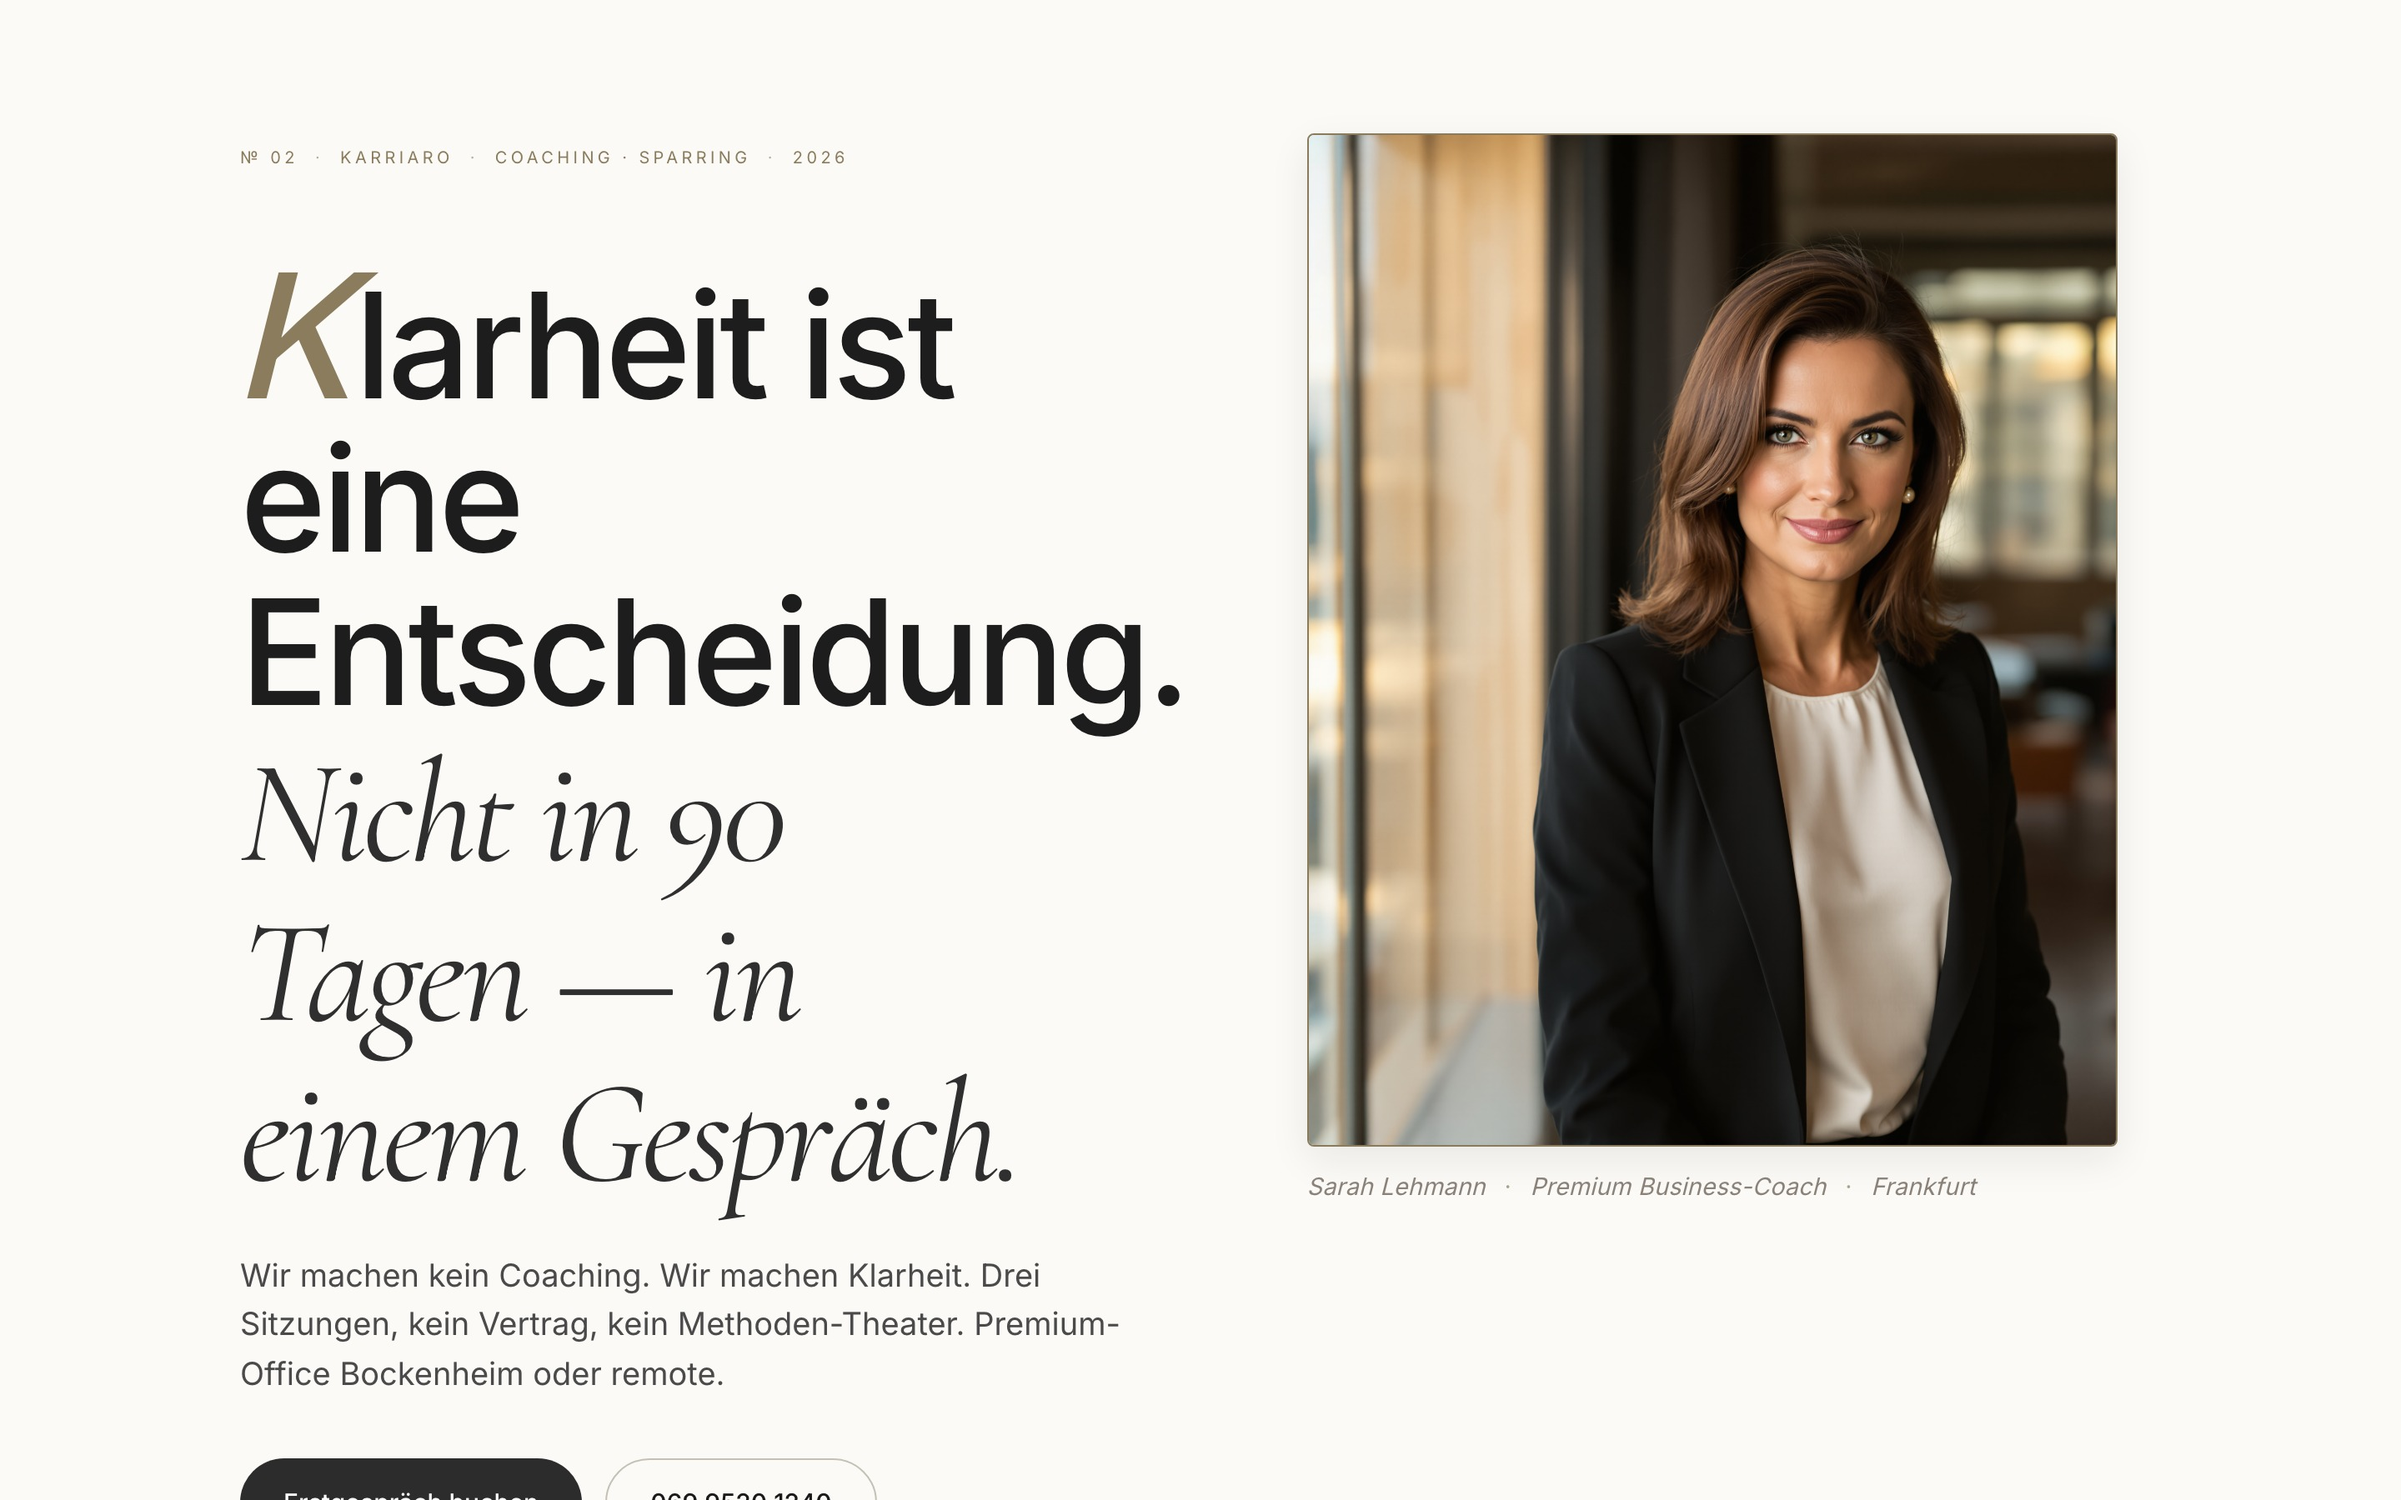
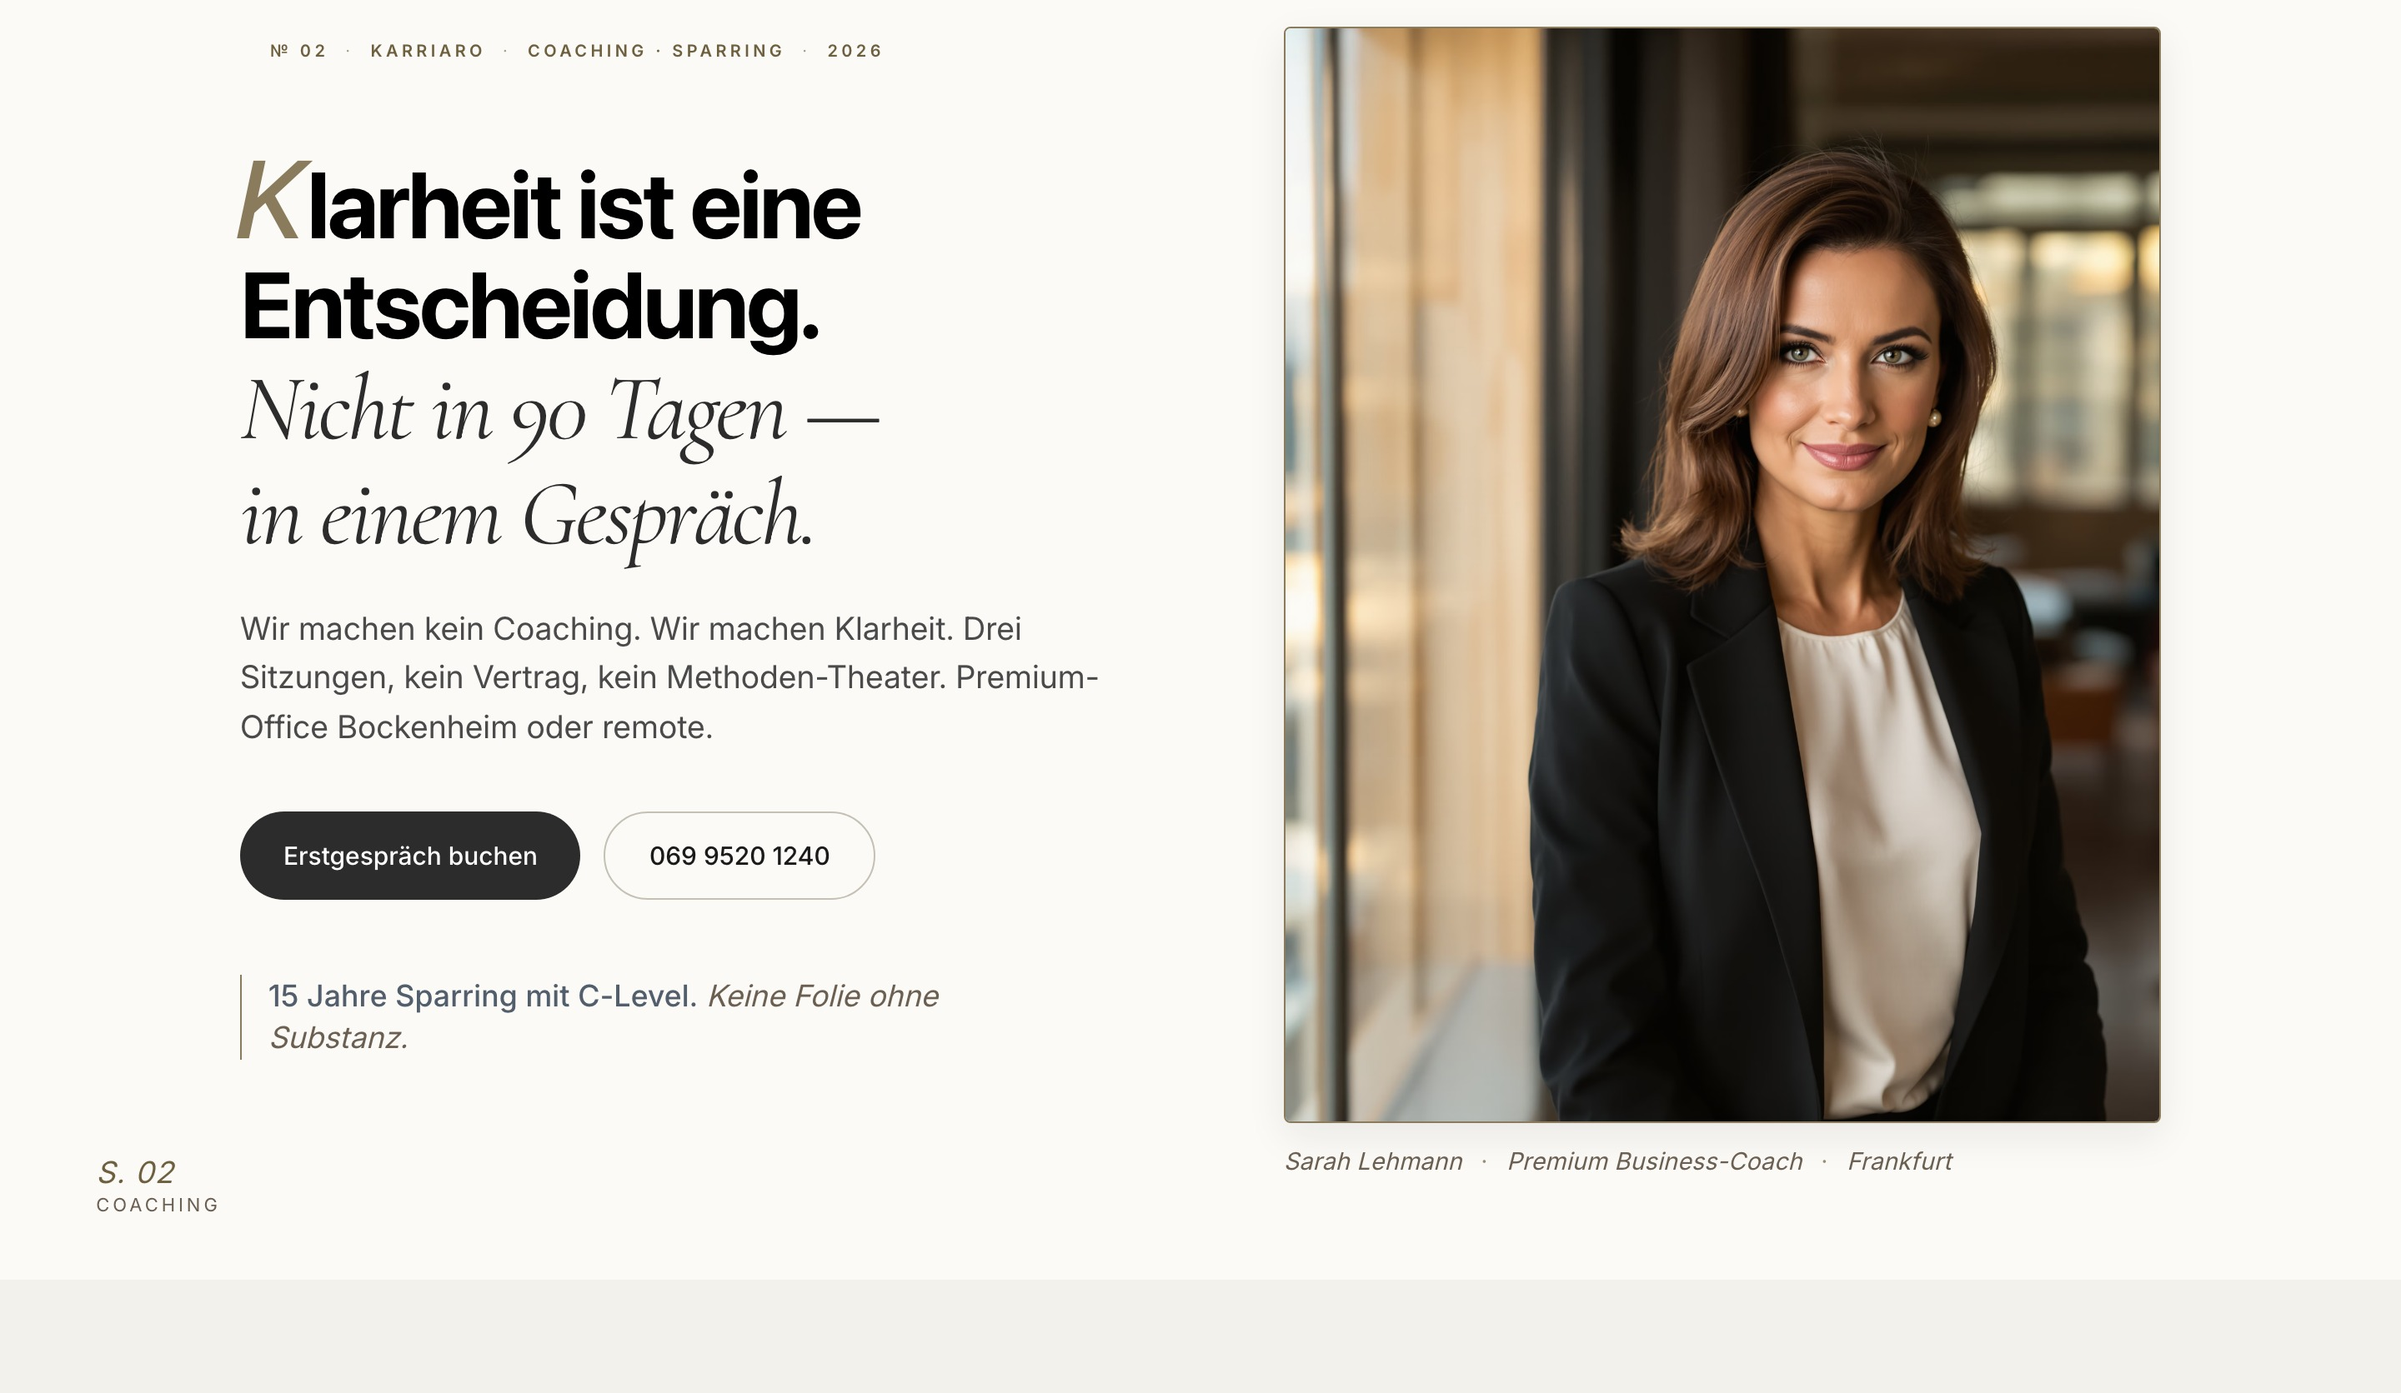
Sprint 186 (Polish): Coaching-Mockup neu geschossen — Buttons vollständig im Bild
Founder: Buttons im Coaching-Vorschaubild abgeschnitten. Ursache: Above-Fold-
Capture (1440×900) — die lange Headline schob die CTAs unter die 900px-Kante.
Plus aufgedeckte Regression: screenshot-mode versteckte die Nav nicht mehr.
Fix:
- screenshot-mockups-fold.mjs: per-Page clipY (coaching: 64px Fenster-Versatz)
  + CLI-Filter (nur eine Seite neu schießen). Beides bleibend nützlich.
- build-mobile-pages.mjs: screenshot-mode-CSS wiederhergestellt (versteckt
  topbar/header/nav/kr-strip → Hero startet oben, keine Nav im Capture).
- Neues coaching-lehmann-mockup-fold.jpg (Buttons + Eyebrow vollständig,
  visuell verifiziert) + Cache-Bust ?v=139→186.

Smoke regressionsfrei.

diff --git a/src/m/index.html b/src/m/index.html
@@ -3325,6 +3325,7 @@ section h2{font-family:-apple-system,BlinkMacSystemFont,'SF Pro Display','Inter'
     <link rel="stylesheet" href="/css/mobile-overrides.css?v=421" media="print" onload="this.media='all'">
     <noscript><link rel="stylesheet" href="/css/mobile-overrides.css?v=421"></noscript>
     <script>(function(){if(/[?&]screenshot=1/.test(location.search))document.documentElement.classList.add('screenshot-mode');})();</script>
+    <style>html.screenshot-mode .topbar,html.screenshot-mode header,html.screenshot-mode nav,html.screenshot-mode .kr-strip,html.screenshot-mode .kr-footer-card{display:none!important}</style>
     <link rel="manifest" href="/manifest.json">
     <link rel="apple-touch-icon" sizes="180x180" href="/icons/apple-touch-icon.png">
     <link rel="icon" type="image/png" sizes="192x192" href="/icons/icon-192.png">
@@ -5356,7 +5357,7 @@ section h2{font-family:-apple-system,BlinkMacSystemFont,'SF Pro Display','Inter'
                     href: '/portfolio/immobilien-makler.html'
                 },
                 coaching: {
-                    src: '/images/coaching-lehmann-mockup-fold.jpg?v=139',
+                    src: '/images/coaching-lehmann-mockup-fold.jpg?v=186',
                     alt: 'Vorschau-Bild für Business-Coach Sarah Lehmann — Coaching & Beratung',
                     url: 'coach-lehmann.de',
                     label: 'Coach Lehmann · Coaching-Werkzeuge',

diff --git a/src/m/audit.html b/src/m/audit.html
@@ -143,6 +143,7 @@ section h2{font-family:-apple-system,BlinkMacSystemFont,'SF Pro Display','Inter'
     <link rel="stylesheet" href="/css/mobile-overrides.css?v=421" media="print" onload="this.media='all'">
     <noscript><link rel="stylesheet" href="/css/mobile-overrides.css?v=421"></noscript>
     <script>(function(){if(/[?&]screenshot=1/.test(location.search))document.documentElement.classList.add('screenshot-mode');})();</script>
+    <style>html.screenshot-mode .topbar,html.screenshot-mode header,html.screenshot-mode nav,html.screenshot-mode .kr-strip,html.screenshot-mode .kr-footer-card{display:none!important}</style>
     <link rel="manifest" href="/manifest.json">
     <link rel="apple-touch-icon" sizes="180x180" href="/icons/apple-touch-icon.png">
     <link rel="icon" type="image/png" sizes="192x192" href="/icons/icon-192.png">

diff --git a/src/m/blog.html b/src/m/blog.html
@@ -105,6 +105,7 @@ section h2{font-family:-apple-system,BlinkMacSystemFont,'SF Pro Display','Inter'
     <link rel="stylesheet" href="/css/mobile-overrides.css?v=421" media="print" onload="this.media='all'">
     <noscript><link rel="stylesheet" href="/css/mobile-overrides.css?v=421"></noscript>
     <script>(function(){if(/[?&]screenshot=1/.test(location.search))document.documentElement.classList.add('screenshot-mode');})();</script>
+    <style>html.screenshot-mode .topbar,html.screenshot-mode header,html.screenshot-mode nav,html.screenshot-mode .kr-strip,html.screenshot-mode .kr-footer-card{display:none!important}</style>
     <link rel="manifest" href="/manifest.json">
     <link rel="apple-touch-icon" sizes="180x180" href="/icons/apple-touch-icon.png">
     <link rel="icon" type="image/png" sizes="192x192" href="/icons/icon-192.png">

diff --git a/src/m/gruender.html b/src/m/gruender.html
@@ -101,6 +101,7 @@ section h2{font-family:-apple-system,BlinkMacSystemFont,'SF Pro Display','Inter'
     <link rel="stylesheet" href="/css/mobile-overrides.css?v=421" media="print" onload="this.media='all'">
     <noscript><link rel="stylesheet" href="/css/mobile-overrides.css?v=421"></noscript>
     <script>(function(){if(/[?&]screenshot=1/.test(location.search))document.documentElement.classList.add('screenshot-mode');})();</script>
+    <style>html.screenshot-mode .topbar,html.screenshot-mode header,html.screenshot-mode nav,html.screenshot-mode .kr-strip,html.screenshot-mode .kr-footer-card{display:none!important}</style>
     <link rel="manifest" href="/manifest.json">
     <link rel="apple-touch-icon" sizes="180x180" href="/icons/apple-touch-icon.png">
     <link rel="icon" type="image/png" sizes="192x192" href="/icons/icon-192.png">

diff --git a/src/m/lighthouse-scores.html b/src/m/lighthouse-scores.html
@@ -220,6 +220,7 @@ section h2{font-family:-apple-system,BlinkMacSystemFont,'SF Pro Display','Inter'
     <link rel="stylesheet" href="/css/mobile-overrides.css?v=421" media="print" onload="this.media='all'">
     <noscript><link rel="stylesheet" href="/css/mobile-overrides.css?v=421"></noscript>
     <script>(function(){if(/[?&]screenshot=1/.test(location.search))document.documentElement.classList.add('screenshot-mode');})();</script>
+    <style>html.screenshot-mode .topbar,html.screenshot-mode header,html.screenshot-mode nav,html.screenshot-mode .kr-strip,html.screenshot-mode .kr-footer-card{display:none!important}</style>
     <link rel="manifest" href="/manifest.json">
     <link rel="apple-touch-icon" sizes="180x180" href="/icons/apple-touch-icon.png">
     <link rel="icon" type="image/png" sizes="192x192" href="/icons/icon-192.png">

diff --git a/src/m/portfolio/coaching-lehmann.html b/src/m/portfolio/coaching-lehmann.html
@@ -277,6 +277,7 @@ section h2{font-family:-apple-system,BlinkMacSystemFont,'SF Pro Display','Inter'
     <link rel="stylesheet" href="/css/mobile-overrides.css?v=421" media="print" onload="this.media='all'">
     <noscript><link rel="stylesheet" href="/css/mobile-overrides.css?v=421"></noscript>
     <script>(function(){if(/[?&]screenshot=1/.test(location.search))document.documentElement.classList.add('screenshot-mode');})();</script>
+    <style>html.screenshot-mode .topbar,html.screenshot-mode header,html.screenshot-mode nav,html.screenshot-mode .kr-strip,html.screenshot-mode .kr-footer-card{display:none!important}</style>
     <link rel="manifest" href="/manifest.json">
     <link rel="apple-touch-icon" sizes="180x180" href="/icons/apple-touch-icon.png">
     <link rel="icon" type="image/png" sizes="192x192" href="/icons/icon-192.png">

diff --git a/src/m/portfolio/dachdecker-meisterbetrieb.html b/src/m/portfolio/dachdecker-meisterbetrieb.html
@@ -636,6 +636,7 @@ section h2{font-family:-apple-system,BlinkMacSystemFont,'SF Pro Display','Inter'
     <link rel="stylesheet" href="/css/mobile-overrides.css?v=421" media="print" onload="this.media='all'">
     <noscript><link rel="stylesheet" href="/css/mobile-overrides.css?v=421"></noscript>
     <script>(function(){if(/[?&]screenshot=1/.test(location.search))document.documentElement.classList.add('screenshot-mode');})();</script>
+    <style>html.screenshot-mode .topbar,html.screenshot-mode header,html.screenshot-mode nav,html.screenshot-mode .kr-strip,html.screenshot-mode .kr-footer-card{display:none!important}</style>
     <link rel="manifest" href="/manifest.json">
     <link rel="apple-touch-icon" sizes="180x180" href="/icons/apple-touch-icon.png">
     <link rel="icon" type="image/png" sizes="192x192" href="/icons/icon-192.png">

diff --git a/src/m/portfolio/friseur-salon.html b/src/m/portfolio/friseur-salon.html
@@ -613,6 +613,7 @@ section h2{font-family:-apple-system,BlinkMacSystemFont,'SF Pro Display','Inter'
     <link rel="stylesheet" href="/css/mobile-overrides.css?v=421" media="print" onload="this.media='all'">
     <noscript><link rel="stylesheet" href="/css/mobile-overrides.css?v=421"></noscript>
     <script>(function(){if(/[?&]screenshot=1/.test(location.search))document.documentElement.classList.add('screenshot-mode');})();</script>
+    <style>html.screenshot-mode .topbar,html.screenshot-mode header,html.screenshot-mode nav,html.screenshot-mode .kr-strip,html.screenshot-mode .kr-footer-card{display:none!important}</style>
     <link rel="manifest" href="/manifest.json">
     <link rel="apple-touch-icon" sizes="180x180" href="/icons/apple-touch-icon.png">
     <link rel="icon" type="image/png" sizes="192x192" href="/icons/icon-192.png">

diff --git a/src/m/portfolio/immobilien-makler.html b/src/m/portfolio/immobilien-makler.html
@@ -599,6 +599,7 @@ section h2{font-family:-apple-system,BlinkMacSystemFont,'SF Pro Display','Inter'
     <link rel="stylesheet" href="/css/mobile-overrides.css?v=421" media="print" onload="this.media='all'">
     <noscript><link rel="stylesheet" href="/css/mobile-overrides.css?v=421"></noscript>
     <script>(function(){if(/[?&]screenshot=1/.test(location.search))document.documentElement.classList.add('screenshot-mode');})();</script>
+    <style>html.screenshot-mode .topbar,html.screenshot-mode header,html.screenshot-mode nav,html.screenshot-mode .kr-strip,html.screenshot-mode .kr-footer-card{display:none!important}</style>
     <link rel="manifest" href="/manifest.json">
     <link rel="apple-touch-icon" sizes="180x180" href="/icons/apple-touch-icon.png">
     <link rel="icon" type="image/png" sizes="192x192" href="/icons/icon-192.png">

diff --git a/src/m/portfolio/meisterbetrieb-mueller.html b/src/m/portfolio/meisterbetrieb-mueller.html
@@ -438,6 +438,7 @@ section h2{font-family:-apple-system,BlinkMacSystemFont,'SF Pro Display','Inter'
     <link rel="stylesheet" href="/css/mobile-overrides.css?v=421" media="print" onload="this.media='all'">
     <noscript><link rel="stylesheet" href="/css/mobile-overrides.css?v=421"></noscript>
     <script>(function(){if(/[?&]screenshot=1/.test(location.search))document.documentElement.classList.add('screenshot-mode');})();</script>
+    <style>html.screenshot-mode .topbar,html.screenshot-mode header,html.screenshot-mode nav,html.screenshot-mode .kr-strip,html.screenshot-mode .kr-footer-card{display:none!important}</style>
     <link rel="manifest" href="/manifest.json">
     <link rel="apple-touch-icon" sizes="180x180" href="/icons/apple-touch-icon.png">
     <link rel="icon" type="image/png" sizes="192x192" href="/icons/icon-192.png">

diff --git a/src/m/portfolio/praxis-weber.html b/src/m/portfolio/praxis-weber.html
@@ -474,6 +474,7 @@ section h2{font-family:-apple-system,BlinkMacSystemFont,'SF Pro Display','Inter'
     <link rel="stylesheet" href="/css/mobile-overrides.css?v=421" media="print" onload="this.media='all'">
     <noscript><link rel="stylesheet" href="/css/mobile-overrides.css?v=421"></noscript>
     <script>(function(){if(/[?&]screenshot=1/.test(location.search))document.documentElement.classList.add('screenshot-mode');})();</script>
+    <style>html.screenshot-mode .topbar,html.screenshot-mode header,html.screenshot-mode nav,html.screenshot-mode .kr-strip,html.screenshot-mode .kr-footer-card{display:none!important}</style>
     <link rel="manifest" href="/manifest.json">
     <link rel="apple-touch-icon" sizes="180x180" href="/icons/apple-touch-icon.png">
     <link rel="icon" type="image/png" sizes="192x192" href="/icons/icon-192.png">

diff --git a/src/m/portfolio/restaurant-template.html b/src/m/portfolio/restaurant-template.html
@@ -511,6 +511,7 @@ section h2{font-family:-apple-system,BlinkMacSystemFont,'SF Pro Display','Inter'
     <link rel="stylesheet" href="/css/mobile-overrides.css?v=421" media="print" onload="this.media='all'">
     <noscript><link rel="stylesheet" href="/css/mobile-overrides.css?v=421"></noscript>
     <script>(function(){if(/[?&]screenshot=1/.test(location.search))document.documentElement.classList.add('screenshot-mode');})();</script>
+    <style>html.screenshot-mode .topbar,html.screenshot-mode header,html.screenshot-mode nav,html.screenshot-mode .kr-strip,html.screenshot-mode .kr-footer-card{display:none!important}</style>
     <link rel="manifest" href="/manifest.json">
     <link rel="apple-touch-icon" sizes="180x180" href="/icons/apple-touch-icon.png">
     <link rel="icon" type="image/png" sizes="192x192" href="/icons/icon-192.png">
